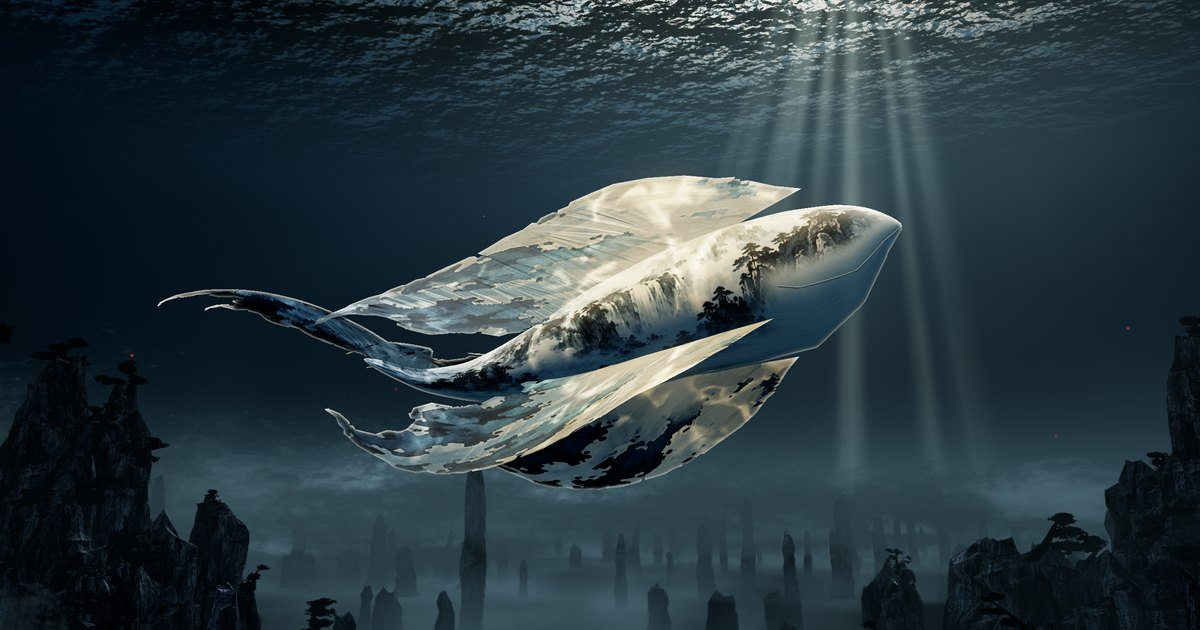
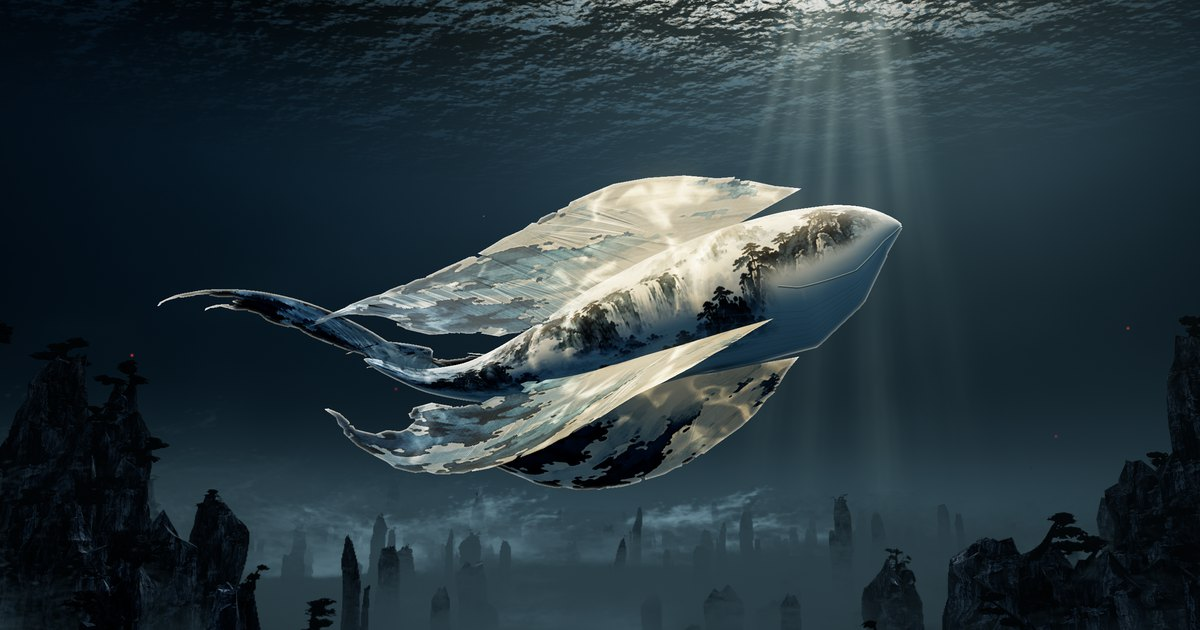
xiaoyaoyou: M4 mist stands in front of every foot; quieter water; varied soft rays that fan in any aspect

diff --git a/games/xiaoyaoyou/src/post.js b/games/xiaoyaoyou/src/post.js
@@ -3,7 +3,7 @@ import * as THREE from 'three';
 // HDR scene -> half-resolution volumetric light and mist -> bloom -> filmic grade.
 // Every pass is counted in renderer.info, so the draw-call gate sees all of it.
 
-const RAY_COUNT = 13;
+const RAY_COUNT = 17;
 const VERTEX = 'varying vec2 vUv;void main(){vUv=uv;gl_Position=vec4(position.xy,0.,1.);}';
 
 const lerp = (a, b, t) => a + (b - a) * t;
@@ -175,10 +175,10 @@ void main(){
   for(int i=0;i<RAYS;i++){
     vec4 r=uRays[i];
     float across=(angle-r.x)/r.y, along=below/r.z;
-    rays+=r.w*exp(-across*across)*exp(-along*along*along);
+    rays+=r.w*exp(-across*across)*exp(-along*along);
   }
   float strands=texture2D(tGobo,vec2(angle*5.1+uTime*.004,.13)).a;
-  float broken=.62+.76*texture2D(tGobo,vec2(angle*2.3,below*.42+uTime*.002)).b;
+  float broken=.4+1.2*texture2D(tGobo,vec2(angle*2.3,below*.9+uTime*.002)).b;
   // Light gathers around one opening in the surface.
   vec2 source=(vUv-clamp(uVanish,vec2(.08,0.),vec2(.92,1.06)))*vec2(uAspect,1.);
   // Soft-limited: strong columns stay light in water and never become a solid wall.
@@ -187,7 +187,7 @@ void main(){
   // One shared bright region near the surface, which the rays visibly leave.
   scatter+=uShaft*exp(-dot(source,source)*3.)*.13;
   // A soft band of far water covers the line where the seabed meets the dome.
-  scatter+=uMist*.1*exp(-pow(ray.y/.085,2.))*smoothstep(0.,1.,dist/(900.*sqrt(uScale)));
+  scatter+=uMist*.05*exp(-pow(ray.y/.085,2.))*smoothstep(0.,1.,dist/(900.*sqrt(uScale)));
   // Mist hugs the seabed: march only the slab of water it lives in.
   float transmit=1.;
   float t0=0.,t1=min(dist,uReach*2.4);
@@ -232,14 +232,16 @@ const cardVertex = `
 attribute vec4 aCenter;
 attribute vec4 aCard;
 uniform float uTime,uScale,uDensity,uSurface;
-uniform vec3 uLight;
+uniform vec3 uLight,uCamera;
 uniform sampler2D tGobo;
 varying vec2 vUv;
 varying float vFade,vLight,vDepth,vSoft;
 void main(){
   float width=aCenter.w*pow(uScale,.34);
-  float height=width*.62/pow(uScale,.12);
-  vec3 center=aCenter.xyz+vec3(sin(uTime*.03+aCard.y*40.),0.,cos(uTime*.024+aCard.y*31.))*width*.08;
+  float height=width*.6/pow(uScale,.12);
+  vec3 center=aCenter.xyz+vec3(sin(uTime*.03+aCard.y*40.),0.,cos(uTime*.024+aCard.y*31.))*width*.06;
+  // Always in front of the foot it belongs to, seen from wherever the camera is.
+  center.xz+=normalize(uCamera.xz-center.xz+1e-3)*aCard.w;
   vec4 view=viewMatrix*vec4(center,1.);
   vec3 up=(viewMatrix*vec4(0.,1.,0.,0.)).xyz;
   vec2 corner=position.xy;
@@ -249,7 +251,7 @@ void main(){
   vSoft=30.+22.*sqrt(uScale);
   // Close to the camera a card opens out and disappears, so the view never enters a sheet.
   float near=smoothstep(90.*sqrt(uScale),300.*sqrt(uScale),dist);
-  vFade=near*exp(-pow(dist*uDensity*.72,2.))*(.82+.18*sin(uTime*.11+aCard.y*17.));
+  vFade=near*exp(-pow(dist*uDensity*.6,2.))*(.82+.18*sin(uTime*.11+aCard.y*17.));
   vec2 q=center.xz+uLight.xz*(uSurface-center.y)/uLight.y;
   vLight=.34+1.3*texture2D(tGobo,q/(900.*sqrt(uScale))).r;
   float cell=aCard.x;
@@ -403,9 +405,10 @@ export function createPost(renderer, gobo, seedRandom) {
   // The table of rays: angle from straight down, half-width, reach in frame heights, strength.
   const rayRandom = seedRandom;
   const RAY_SET = Array.from({ length: RAY_COUNT }, (_, i) => {
-    const place = (i + .5) / RAY_COUNT, thick = rayRandom() < .3;
-    return { angle: (place - .5) * .78 + (rayRandom() - .5) * .05, width: thick ? .04 + rayRandom() * .03 : .012 + rayRandom() * .016,
-      reach: .3 + rayRandom() * .5, gain: (thick ? .5 : .7 + rayRandom() * .5) * (1 - Math.pow(Math.abs(place - .56) * 1.9, 2)) };
+    const place = (i + .5) / RAY_COUNT, thick = rayRandom() < .3, long = rayRandom();
+    // Most rays die early; only a couple reach far, and those are the fainter ones.
+    return { angle: (place - .5) * .78 + (rayRandom() - .5) * .07, width: thick ? .05 + rayRandom() * .05 : .016 + rayRandom() * .02,
+      reach: .16 + long * long * .62, gain: (thick ? .42 : .55 + rayRandom() * .6) * (1 - .55 * long) * (1 - Math.pow(Math.abs(place - .56) * 1.9, 2)) };
   });
   const volume = pass(volumeFragment.replaceAll('RAYS', String(RAY_COUNT)), {
     tDepth: { value: depthTexture }, tGobo: { value: gobo }, tMist: { value: mist }, tMistMap: { value: null },
@@ -433,7 +436,7 @@ export function createPost(renderer, gobo, seedRandom) {
   const cardScene = new THREE.Scene();
   const cardUniforms = {
     tSheet: { value: null }, tDepth: { value: depthTexture }, tGobo: { value: gobo }, uProject: { value: new THREE.Vector4() }, uViewport: { value: new THREE.Vector2(1, 1) },
-    uMist: { value: new THREE.Color('#71868E') }, uGain: { value: .62 }, uTime: { value: 0 }, uScale: { value: 1 }, uDensity: { value: .001 }, uSurface: { value: 640 }, uLight: { value: new THREE.Vector3(0, 1, 0) },
+    uMist: { value: new THREE.Color('#71868E') }, uGain: { value: .62 }, uTime: { value: 0 }, uScale: { value: 1 }, uDensity: { value: .001 }, uSurface: { value: 640 }, uLight: { value: new THREE.Vector3(0, 1, 0) }, uCamera: { value: new THREE.Vector3() },
   };
   return {
     uniforms: volume.uniforms, grade: composite.uniforms, sceneTarget, cards: cardUniforms,
@@ -448,7 +451,7 @@ export function createPost(renderer, gobo, seedRandom) {
       const center = new Float32Array(items.length * 4), card = new Float32Array(items.length * 4);
       items.forEach((item, i) => {
         center.set([item.x, item.y, item.z, item.width], i * 4);
-        card.set([item.cell, item.seed, item.flip, 0], i * 4);
+        card.set([item.cell, item.seed, item.flip, item.front], i * 4);
       });
       geometry.setAttribute('aCenter', new THREE.InstancedBufferAttribute(center, 4));
       geometry.setAttribute('aCard', new THREE.InstancedBufferAttribute(card, 4));
@@ -501,6 +504,7 @@ export function createPost(renderer, gobo, seedRandom) {
       composite.uniforms.tVolume.value = volumeA.texture;
       cardUniforms.uProject.value.copy(blur.uniforms.uProject.value);
       cardUniforms.uTime.value = time;
+      cardUniforms.uCamera.value.copy(camera.position);
       renderer.setRenderTarget(cardTarget);
       renderer.setClearColor(0x000000, 0);
       renderer.clear();

diff --git a/games/xiaoyaoyou/src/world.js b/games/xiaoyaoyou/src/world.js
@@ -185,14 +185,14 @@ function domeMaterial(shared) {
           vec2 toSun=normalize(uLight.xz+1e-4);
           float facet=smoothstep(-.5,.8,dot(slope,toSun)*44.);
           float swell=texture2D(tGobo,p/(size*3.1)+flow*.4).b;
-          vec3 water=mix(uAbyss*.42,uSea*vec3(.56,.76,.92),facet*facet*facet)*(.5+.95*swell);
+          vec3 water=mix(uAbyss*.42,uSea*vec3(.5,.7,.88),facet*facet*facet*(.34+.66*pow(sun,5.)))*(.5+.95*swell);
           float glow=pow(sun,8.);
           water+=uHaze*glow*facet*facet*.8;
-          float glint=smoothstep(.3,.8,1.-length(slope-toSun*.014)*46.);
-          float pool=pow(sun,12.)*.55+pow(sun,44.)*7.;
+          float glint=smoothstep(.1,.9,1.-length(slope-toSun*.014)*42.);
+          float pool=pow(sun,22.)*.46+pow(sun,60.)*7.;
           float top=smoothstep(.44,.58,up);
           vec3 cream=mix(uShaft*2.1,vec3(2.2,1.95,1.5),pow(sun,18.));
-          vec3 surface=water+cream*glint*min(pool,1.)*(.12+.88*top);
+          vec3 surface=water+cream*glint*min(pool,1.)*(.08+.92*top);
           surface+=cream*glint*max(pool-1.,0.)*.5*top;
           float near=exp(-pow(t*uDensity*.32,2.));
           c=mix(c,surface,near*smoothstep(.34,.56,up));
@@ -240,7 +240,7 @@ export function createWorld(seaRoot, gobo, rockTexture) {
   const shared = {
     uAbyss: { value: palette.abyss }, uDeep: { value: palette.deep }, uSea: { value: palette.sea },
     uHaze: { value: palette.haze }, uShaft: { value: palette.shaft }, uFog: { value: palette.deep },
-    uHorizon: { value: palette.deep.clone().multiplyScalar(.6).add(palette.haze.clone().multiplyScalar(.5)) },
+    uHorizon: { value: palette.deep.clone().multiplyScalar(.62).add(palette.haze.clone().multiplyScalar(.36)) },
     uLight: { value: light }, uCamera: { value: new THREE.Vector3() }, uTime: { value: 0 },
     uDensity: { value: .003 }, uSurface: { value: WORLD.surface }, uViewScale: { value: 1 }, uFoot: { value: 90 }, uNear: { value: 30 }, uBand: { value: 1 }, tGobo: { value: gobo }, tRock: { value: rockTexture },
     uKey: { value: new THREE.Color(1.15, 1.2, 1.2) }, uAmbient: { value: new THREE.Color(.075, .1, .118) },
@@ -371,16 +371,15 @@ export function createWorld(seaRoot, gobo, rockTexture) {
     }
   }
 
-  // Mist cards lie across every foot, and open banks drift between the stands.
+  // Mist cards stand on the camera's side of every foot, because only mist in front of stone
+  // can hide where it ends. Mist behind a foot just outlines it.
   const cardRandom = mulberry(7171), cards = [];
-  const addCard = (x, z, spread, width) => {
-    const a = cardRandom() * 6.28, r = spread * Math.sqrt(cardRandom());
-    cards.push({ x: x + Math.sin(a) * r, y: 4 + cardRandom() * 26, z: z + Math.cos(a) * r, width: width * (.75 + cardRandom() * .6),
+  const addCard = (x, z, front, width) => {
+    cards.push({ x, y: -46 + cardRandom() * 22, z, width: width * (.8 + cardRandom() * .5), front: front * (.9 + cardRandom() * .5),
       cell: Math.floor(cardRandom() * 9), flip: cardRandom() < .5 ? -1 : 1, seed: cardRandom() });
   };
-  for (const item of layout.hero) for (let i = 0; i < 7; i++) addCard(item.x, item.z, 60 + 40 * item.scale, 300 * Math.max(item.scale, 1));
-  for (const item of layout.field) if (cardRandom() < .62) addCard(item.x, item.z, 50, 210 * item.scale);
-  for (let i = 0; i < 70; i++) { const a = cardRandom() * 6.28, r = 200 + cardRandom() * 4000; addCard(Math.sin(a) * r, Math.cos(a) * r, 0, 330); }
+  for (const item of layout.hero) for (let i = 0; i < 4; i++) addCard(item.x, item.z, 46 * item.scale, 300 * Math.max(item.scale, .85));
+  for (const item of layout.field) for (let i = 0; i < 2; i++) addCard(item.x, item.z, 30 * item.scale, 230 * item.scale);
 
   const dome = new THREE.Mesh(new THREE.SphereGeometry(1, 32, 24), domeMaterial(shared));
   dome.frustumCulled = false; dome.renderOrder = -10;
@@ -477,7 +476,7 @@ export function createWorld(seaRoot, gobo, rockTexture) {
       // The light stands ahead of the camera and to its right, so the bright water
       // and the slant of the shafts stay composed as Kun turns.
       camera.getWorldDirection(look);
-      const azimuth = Math.atan2(look.x, look.z) - .34;
+      const azimuth = Math.atan2(look.x, look.z) - .34 * Math.min(1, camera.aspect);
       light.set(Math.sin(azimuth) * .92, 1, Math.cos(azimuth) * .92).normalize();
       // Kun keeps a near-overhead key, leaning a little toward the camera.
       heroLight.set(-look.x * .34 + look.z * .16, 1, -look.z * .34 - look.x * .16).normalize();

diff --git a/games/xiaoyaoyou/src/main.js b/games/xiaoyaoyou/src/main.js
@@ -11,7 +11,7 @@ const CHECKPOINTS = new Map([['title', 'title'], ['north-start', 'north'], ['nor
 // When each source line shows, in journey seconds. Fixed to the simulation, never to the wall clock.
 const LINE_TIMES = { first: [1.8, 10.5], second: 9 };
 const SHEET_VIEWS = ['side', 'top', 'front'];
-const CARD_GAIN = .78, BLOOM_GAIN = .34;
+const CARD_GAIN = .86, BLOOM_GAIN = .34;
 
 export async function createRuntime(text, onProgress) {
   const title = document.querySelector('#title-screen');
